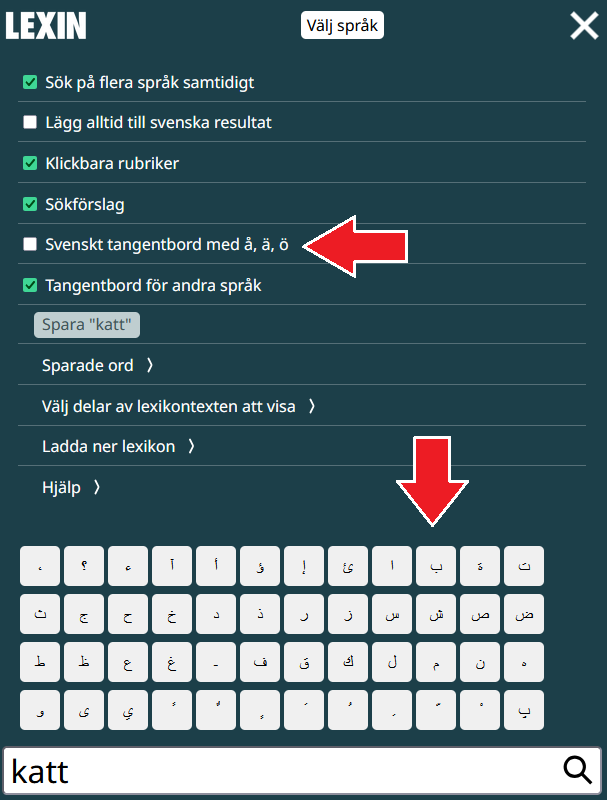
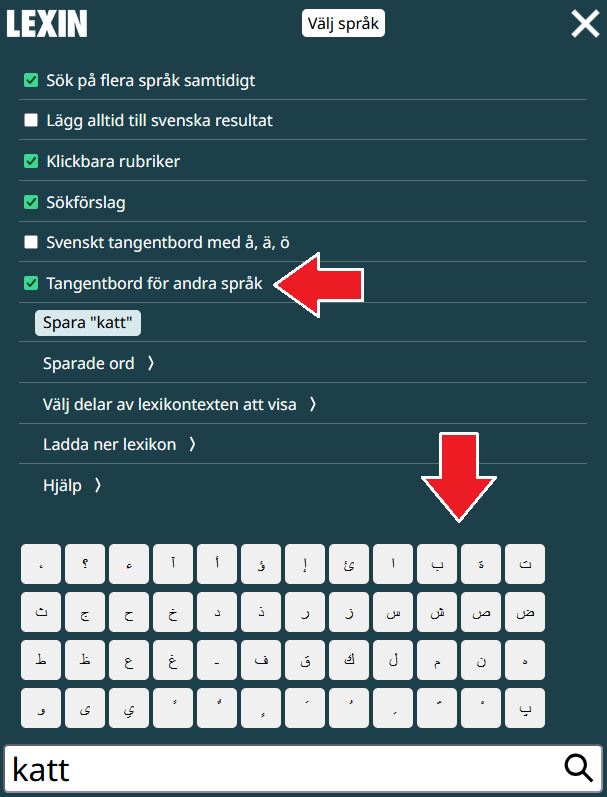
change text link design + remove title from buttons

diff --git a/index.html b/index.html
@@ -198,7 +198,7 @@
 					<label class="settingsmenuLabel" for="keyb_otherSet">Tangentbord för andra språk</label><br/>
 				</div>
 				<div class="settingsMainButton">
-					<button class="saveWordsButton" id="savedWordsSaveCurrent" title="Spara senaste uppslagning" onclick="savedWordsSaveCurrentWord(this, 'saveMessage2')" type="button">
+					<button class="saveWordsButton" id="savedWordsSaveCurrent" onclick="savedWordsSaveCurrentWord(this, 'saveMessage2')" type="button">
 						Spara senaste
 					</button>
 					<span id="saveMessage2" class="saveMessage" role="status" aria-live="polite" aria-atomic="true"></span> 
@@ -232,15 +232,15 @@
 			<!-- SAVED WORDS VIEW -->
 			<div id="saveWordPopup" class="saveWordPopup">
 				<h2>Sparade ord</h2>
-				<button class="saveWordsButton" id="savedWordsSaveCurrentWrd" title="Spara senaste uppslagning" onclick="savedWordsSaveCurrentWord(this, 'saveMessage1')" type="button">
+				<button class="saveWordsButton" id="savedWordsSaveCurrentWrd" onclick="savedWordsSaveCurrentWord(this, 'saveMessage1')" type="button">
 					Spara senaste
 				</button>
 				<span id="saveMessage1" class="saveMessage" role="status" aria-live="polite" aria-atomic="true"></span> 
 				<div id="savedWordsList"></div>
-				<button class="saveWordsButton" id="savedWordsSort" title="Sortera sparade ord" onclick="savedWordsSortWords(this)" type="button">
+				<button class="saveWordsButton" id="savedWordsSort" onclick="savedWordsSortWords(this)" type="button">
 					Sortera orden
 				</button>
-				<button class="saveWordsButton" id="savedWordsClear" title="Rensa sparade ord" onclick="savedWordsClearWords(this)" type="button">
+				<button class="saveWordsButton" id="savedWordsClear" onclick="savedWordsClearWords(this)" type="button">
 					Rensa listan
 				</button>
 			</div>
@@ -362,9 +362,9 @@
 		<!-- KEYBOARD -->
     	<div>
 			<div class="keyboard" id="keybSE">
-				<button id="keybsweå" class="keyboardKeyButton" title="Mata in å" type="button">å</button>
-				<button id="keybsweä" class="keyboardKeyButton" title="Mata in ä" type="button">ä</button>
-				<button id="keybsweö" class="keyboardKeyButton" title="Mata in ö" type="button">ö</button>
+				<button id="keybsweå" class="keyboardKeyButton" type="button">å</button>
+				<button id="keybsweä" class="keyboardKeyButton" type="button">ä</button>
+				<button id="keybsweö" class="keyboardKeyButton" type="button">ö</button>
 			</div>
 			<div id="transKeybWrapper">
 	  			<div class="keyboard" id="keybTrans"></div>

diff --git a/saveWords.js b/saveWords.js
@@ -85,7 +85,7 @@ function getULfromSavedWords() {
 
 			let deleteBtn = document.createElement('div');
 			deleteBtn.innerHTML = "&times;";
-			deleteBtn.title = "Ta bort " + w;
+			/*deleteBtn.title = "Ta bort " + w;*/
 			deleteBtn.className = "removeOneSavedWordButton";
 
 			// accessibility
@@ -163,8 +163,8 @@ function removeOneSavedWord(word) {
 	if (cw == word) {
 		btn.disabled = false;
 		btn2.disabled = false;
-		btn.title = "Spara senaste uppslagning";
-		btn2.title = "Spara senaste uppslagning";
+		//btn.title = "Spara senaste uppslagning";
+		//btn2.title = "Spara senaste uppslagning";
 	} 
 
     return savedWords;
@@ -223,21 +223,21 @@ function updateSaveCurrentButton() {
     if((savedWords && savedWords.includes(cw))) {
 		btn.disabled = true;
 		btn2.disabled = true;
-		btn.title = "Uppslagningen är redan sparad";
-		btn2.title = "Uppslagningen är redan sparad";
+		//btn.title = "Uppslagningen är redan sparad";
+		//btn2.title = "Uppslagningen är redan sparad";
     } 
 	// search is empty
 	else if (cw == "") {
 		btn.disabled = true;
 		btn2.disabled = true;
-		btn.title = "Uppslagningen är tom";
-		btn2.title = "Uppslagningen är tom";
+		//btn.title = "Uppslagningen är tom";
+		//btn2.title = "Uppslagningen är tom";
 	}
 	else {
 		btn.disabled = false;
 		btn2.disabled = false;
-		btn.title = "Spara senaste uppslagning";
-		btn2.title = "Spara senaste uppslagning";
+		//btn.title = "Spara senaste uppslagning";
+		//btn2.title = "Spara senaste uppslagning";
     }
 }
 

diff --git a/lexin.js b/lexin.js
@@ -2270,7 +2270,7 @@ function phoneticToHTML(parentElement, listenContainer, phonetics, show) {
         first = false;
 	
 	if(p.ph != "") {
-	    wrap.appendChild(createTextSpan(" [" + p.ph + "] ", 'phonetic'));
+	    wrap.appendChild(createTextSpan(" [" + p.ph + "]", 'phonetic'));
 	    if(!show) {
 		wrap.className += ' notRelevant';
 	    }
@@ -5519,7 +5519,14 @@ function openPageDescription(elem) {
 		openHelpExamples(inner);
 	    } else if(elem.textContent.indexOf("Video") >= 0) {
 		openHelpVideo(inner);
-	    } else if(elem.textContent == 'referenceHead') {
+	    }
+		
+		// CG ADD - make "Bild" clickable
+		/*else if(elem.textContent.indexOf("Bild") >= 0) {
+		openHelpImage(inner);
+	    }*/
+		
+		else if(elem.textContent == 'referenceHead') {
 		console.log("openPageDescription: Element is an unknown type of clickableHeading", elem);
 	    } else {
 		console.log("openPageDescription: Element is an unknown type of clickableHeading", elem);

diff --git a/help.js b/help.js
@@ -324,6 +324,17 @@ function openHelpVideo(inner) {
        `;
 }
 
+/* --------- HELP PAGE: IMAGE --------- */
+function openHelpImage(inner) {
+    inner.innerHTML = `
+       <h3>Bild</h3>
+
+       <p>Många ord har bilder som hjälper till att förklara ordet. För att visa
+	   en bild, klicka på den lilla bildikonen "Visa bild i Lexin" bredvid 
+	   texten "Bild:".</p>
+       `;
+}
+
 /* --------- FIX LINK BUG (LINK SHOULD NOT JUMP TO TOP OF PAGE) --------- */
 document.addEventListener('click', (e) => {
 	// find in-page link

diff --git a/help.css b/help.css
@@ -97,14 +97,15 @@
 /* --------- SHOW MORE TEXT --------- */
 
 .helpOpenMoreInfo {
-    font-weight: bold;
+    /*font-weight: bold;*/
     /*color: blue;*/
     color: #32525B;
     cursor: pointer;
+    text-decoration: underline;
 }
 
 .helpOpenMoreInfo:hover {
-    text-decoration: underline;
+    /*text-decoration: underline;*/
 }
 
 .helpMoreInfo {

diff --git a/lexin.css b/lexin.css
@@ -256,6 +256,7 @@ select {
 
 .phonetic {
     font-size: 1.3em;
+    padding-right: 0.2em;
 }
 
 .soundFiles {
@@ -524,6 +525,8 @@ select {
 .makeClickableHeadingsStandOut {
     /* color: green; */
     /* text-decoration: underline; */
+    /*text-decoration: underline;*/
+    /*color: #33525B;*/
 }
 
 /* CG text highlight on hover */

diff --git a/popup.css b/popup.css
@@ -67,11 +67,11 @@ form#theForm2 input.popupText {
 }
 
 .gdprText {
-    text-decoration: none;
+    text-decoration: underline;
 }
 
 .gdprText:hover {
-    text-decoration: underline;
+    /*text-decoration: underline;*/
 }
 
 .gdprContent {
